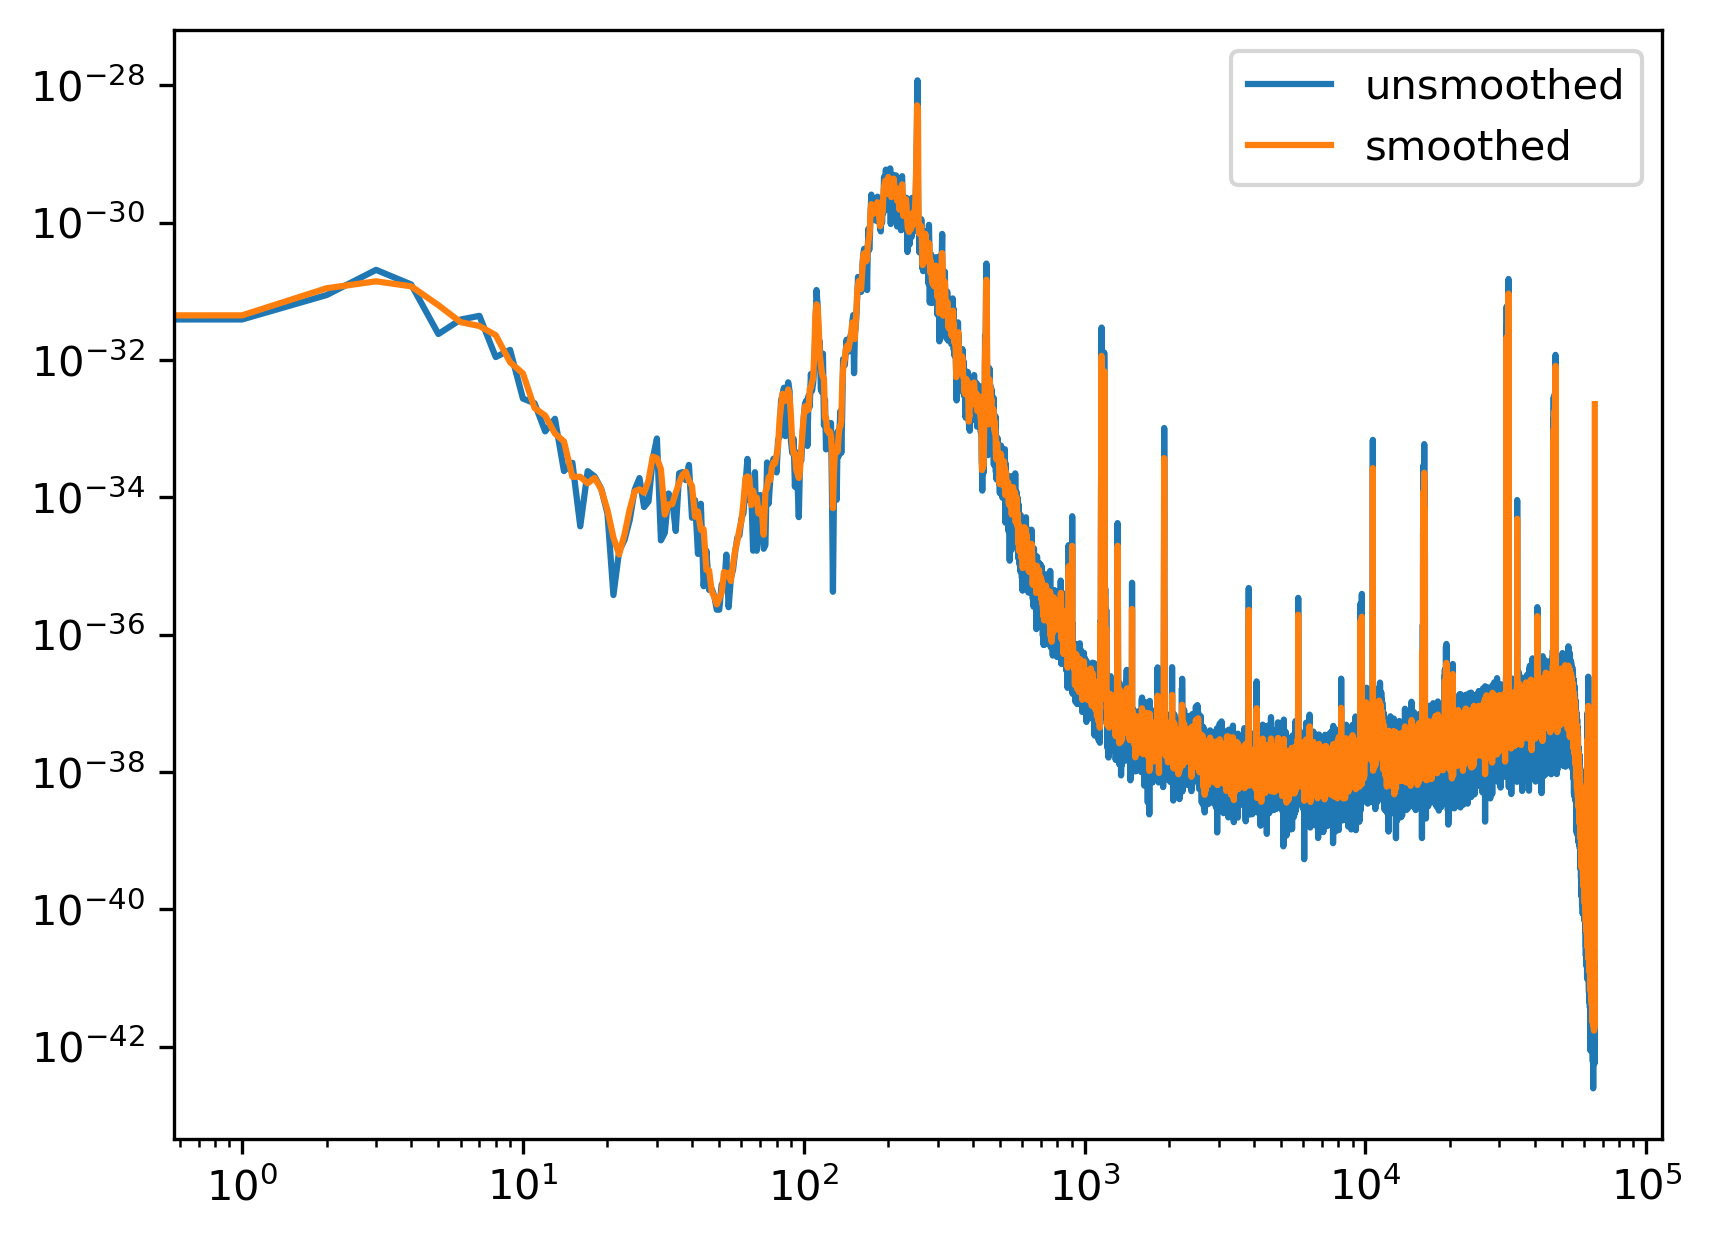
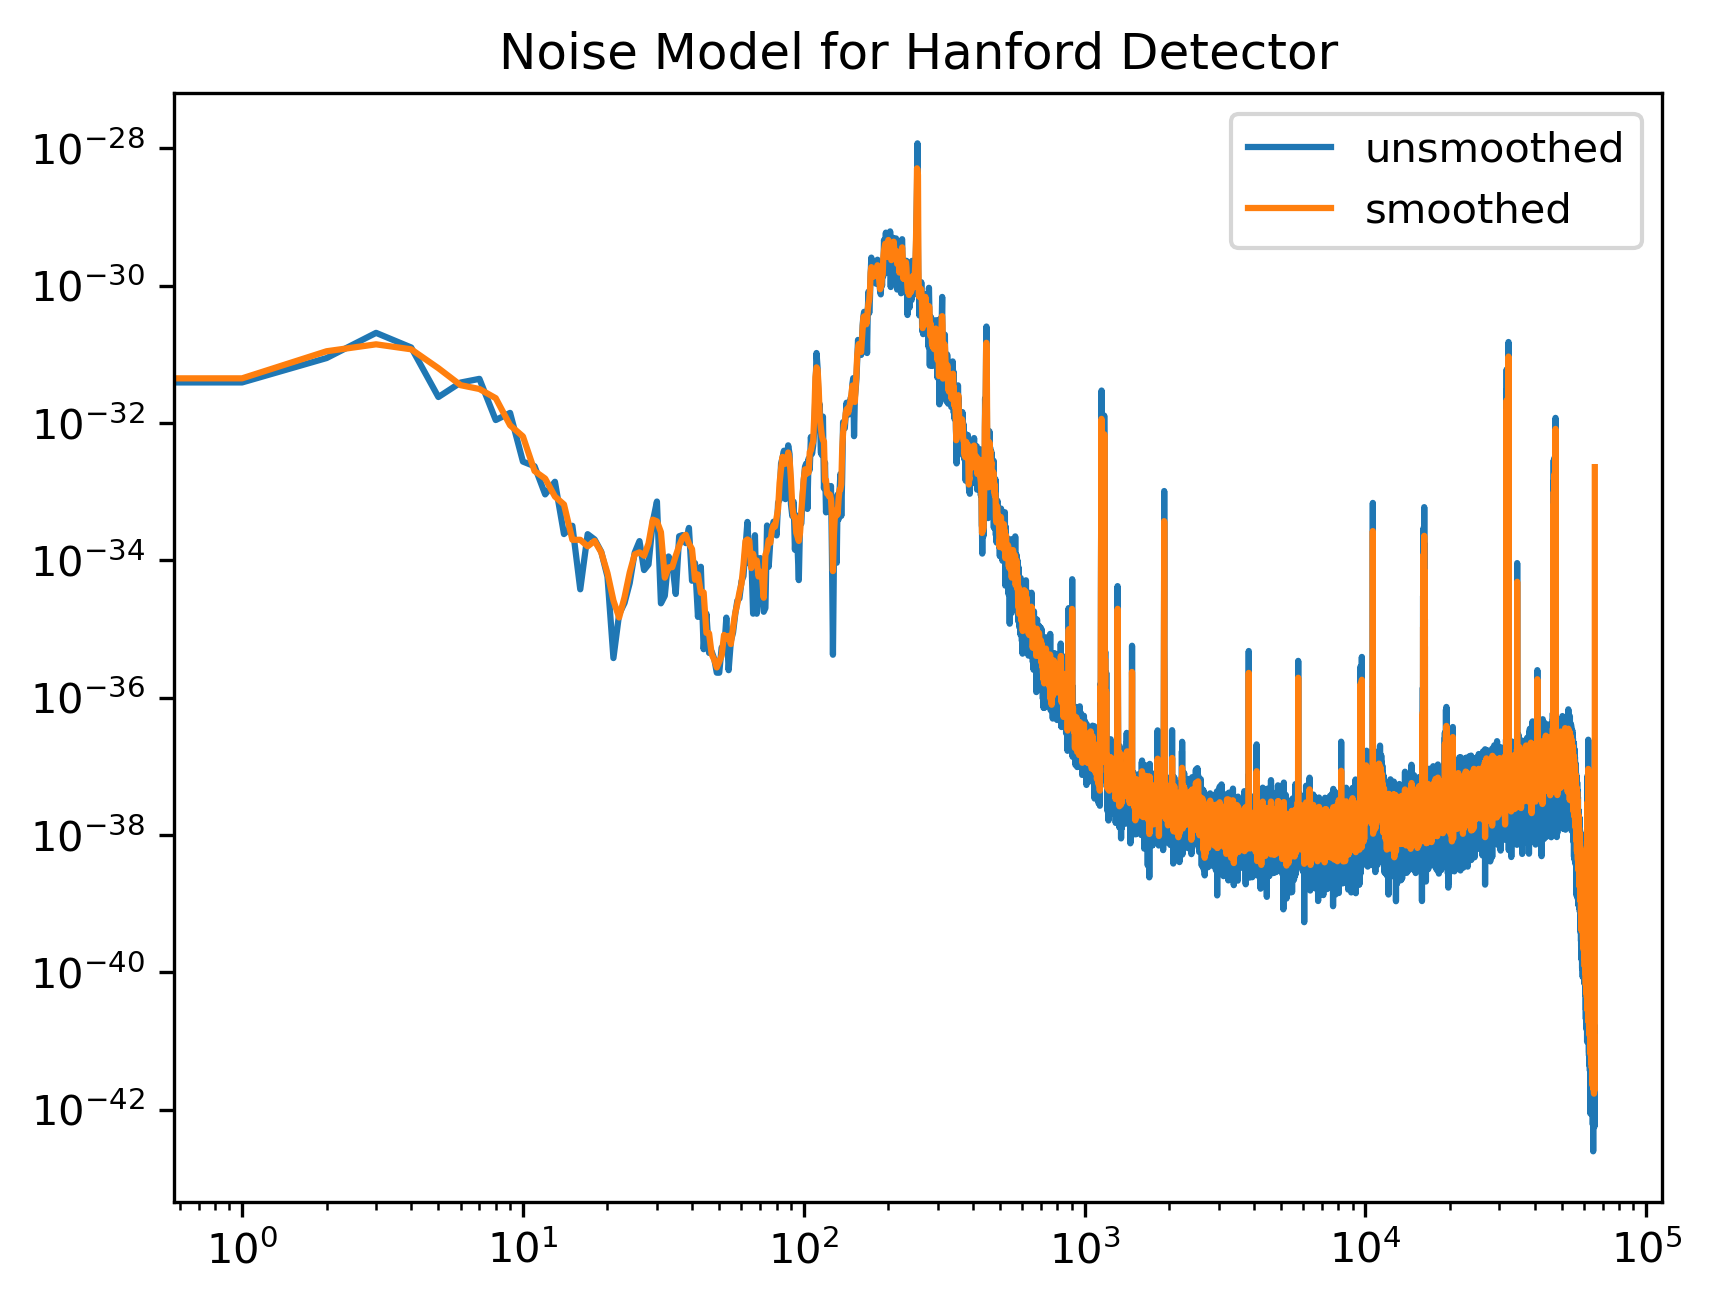
1144

diff --git a/problem_sets/ps6/ps6_1.py b/problem_sets/ps6/ps6_1.py
@@ -20,15 +20,17 @@ data = json.load(f)
 
 print(json.dumps(data, indent = 4, sort_keys=True))
 
-H1, H2, H3, H4 = strain_H
 
 
 n  = len(strain_H[0])
+nl = len(strain_L[0])
 win = window(len(strain_H[0]), n//5)
 th_ft = np.abs(np.fft.rfft(th))
 tl_ft = np.abs(np.fft.rfft(tl))
 strain_ft = np.fft.rfft(strain_H*win)
+strain_ftl = np.fft.rfft(strain_L*win)
 sft = np.sum(np.abs(strain_ft),axis = 0)/4
+sft_l = np.sum(np.abs(strain_ftl),axis = 0)/4
 
 print(sft)
 
@@ -38,16 +40,20 @@ print(sft)
 
 # Noise Model?
 Nft_1 = np.abs(sft)**2
+Nft_2 = np.abs(sft_l)**2
 Nft = Nft_1.copy()
+Nftl = Nft_2.copy()
 # smooth out the noise model:
 for i in range(10):
     Nft_H = (Nft + np.roll(Nft, 1) + np.roll(Nft, -1))/3
+    Nft_L = (Nftl + np.roll(Nftl, 1) + np.roll(Nftl, -1))/3
 
-# plt.loglog(Nft_1, label = 'unsmoothed')
-# plt.loglog(Nft_H, label = 'smoothed')
-# plt.legend()
-# plt.savefig(f'Noise_Model_H.png',dpi = 300, bbox_inches = 'tight')
-# plt.show()
+plt.loglog(Nft_2, label = 'unsmoothed')
+plt.loglog(Nft_L, label = 'smoothed')
+plt.legend()
+plt.title('Noise Model for Livingston Detector')
+plt.savefig(f'Noise_Model_L.png',dpi = 300, bbox_inches = 'tight')
+plt.show()
 
 
 sft_white = sft/np.sqrt(Nft_H)
@@ -56,8 +62,9 @@ th_white = np.fft.irfft(th_white_ft)
 
 # match-filtering the data set
 xcorr2 = np.fft.irfft(sft_white*np.conj(th_white_ft))
-#plt.plot(np.fft.fftshift(xcorr2))
 
+
+# calculate the noise and SNR of each run
 Noise = [0]*4
 SNR = [0]*4
 for i in range(4):
@@ -71,13 +78,6 @@ for i in range(4):
     plt.title(f'Match Filtering of #{i+1} GW event in Hanford \n with Noise = {Noise[i]:.3f} and SNR = {SNR[i]:.3f}.')
     plt.savefig(f'GW{i + 1}_H.png', dpi=300, bbox_inches='tight')
     plt.show()
-
-# Noise = np.std(xcorr2[0,:-2000])
-# print(np.std(xcorr2[0,2000:]),np.std(xcorr2[0,:-2000]))
-# SNR = np.max(xcorr2[0])/Noise
-
-
-
 
 xcorr = np.fft.irfft(sft*np.fft.rfft(th[0]*window(len(th[0]),n //5)))
 plt.plot(xcorr)
